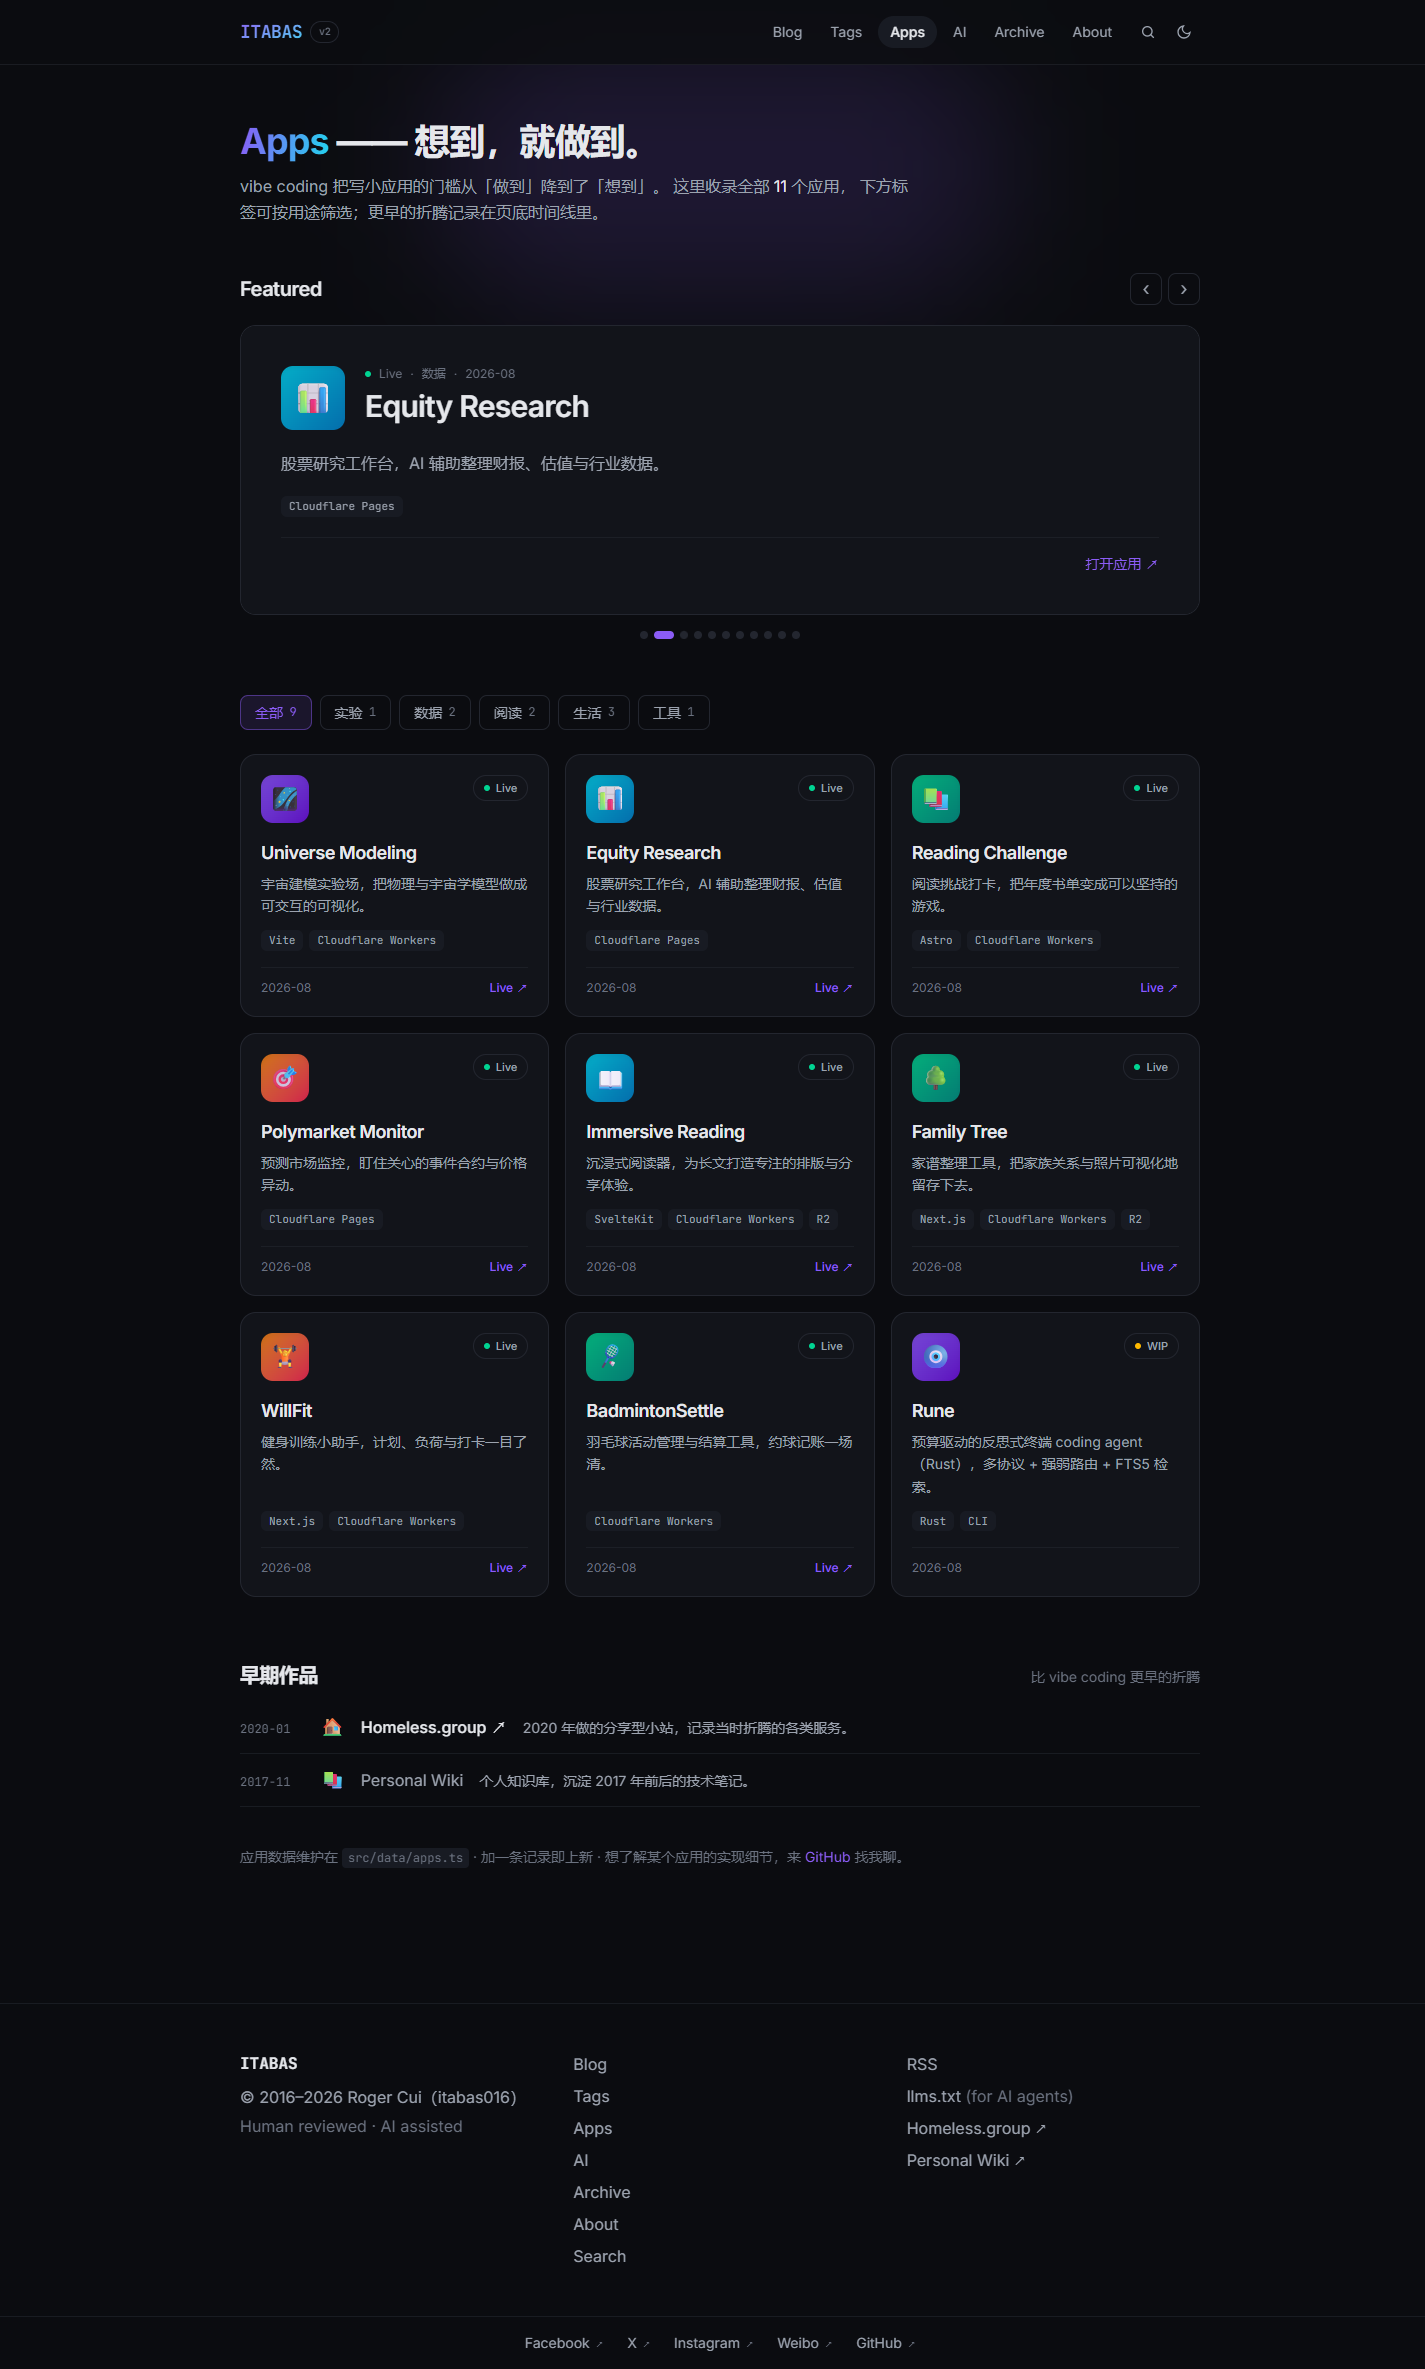
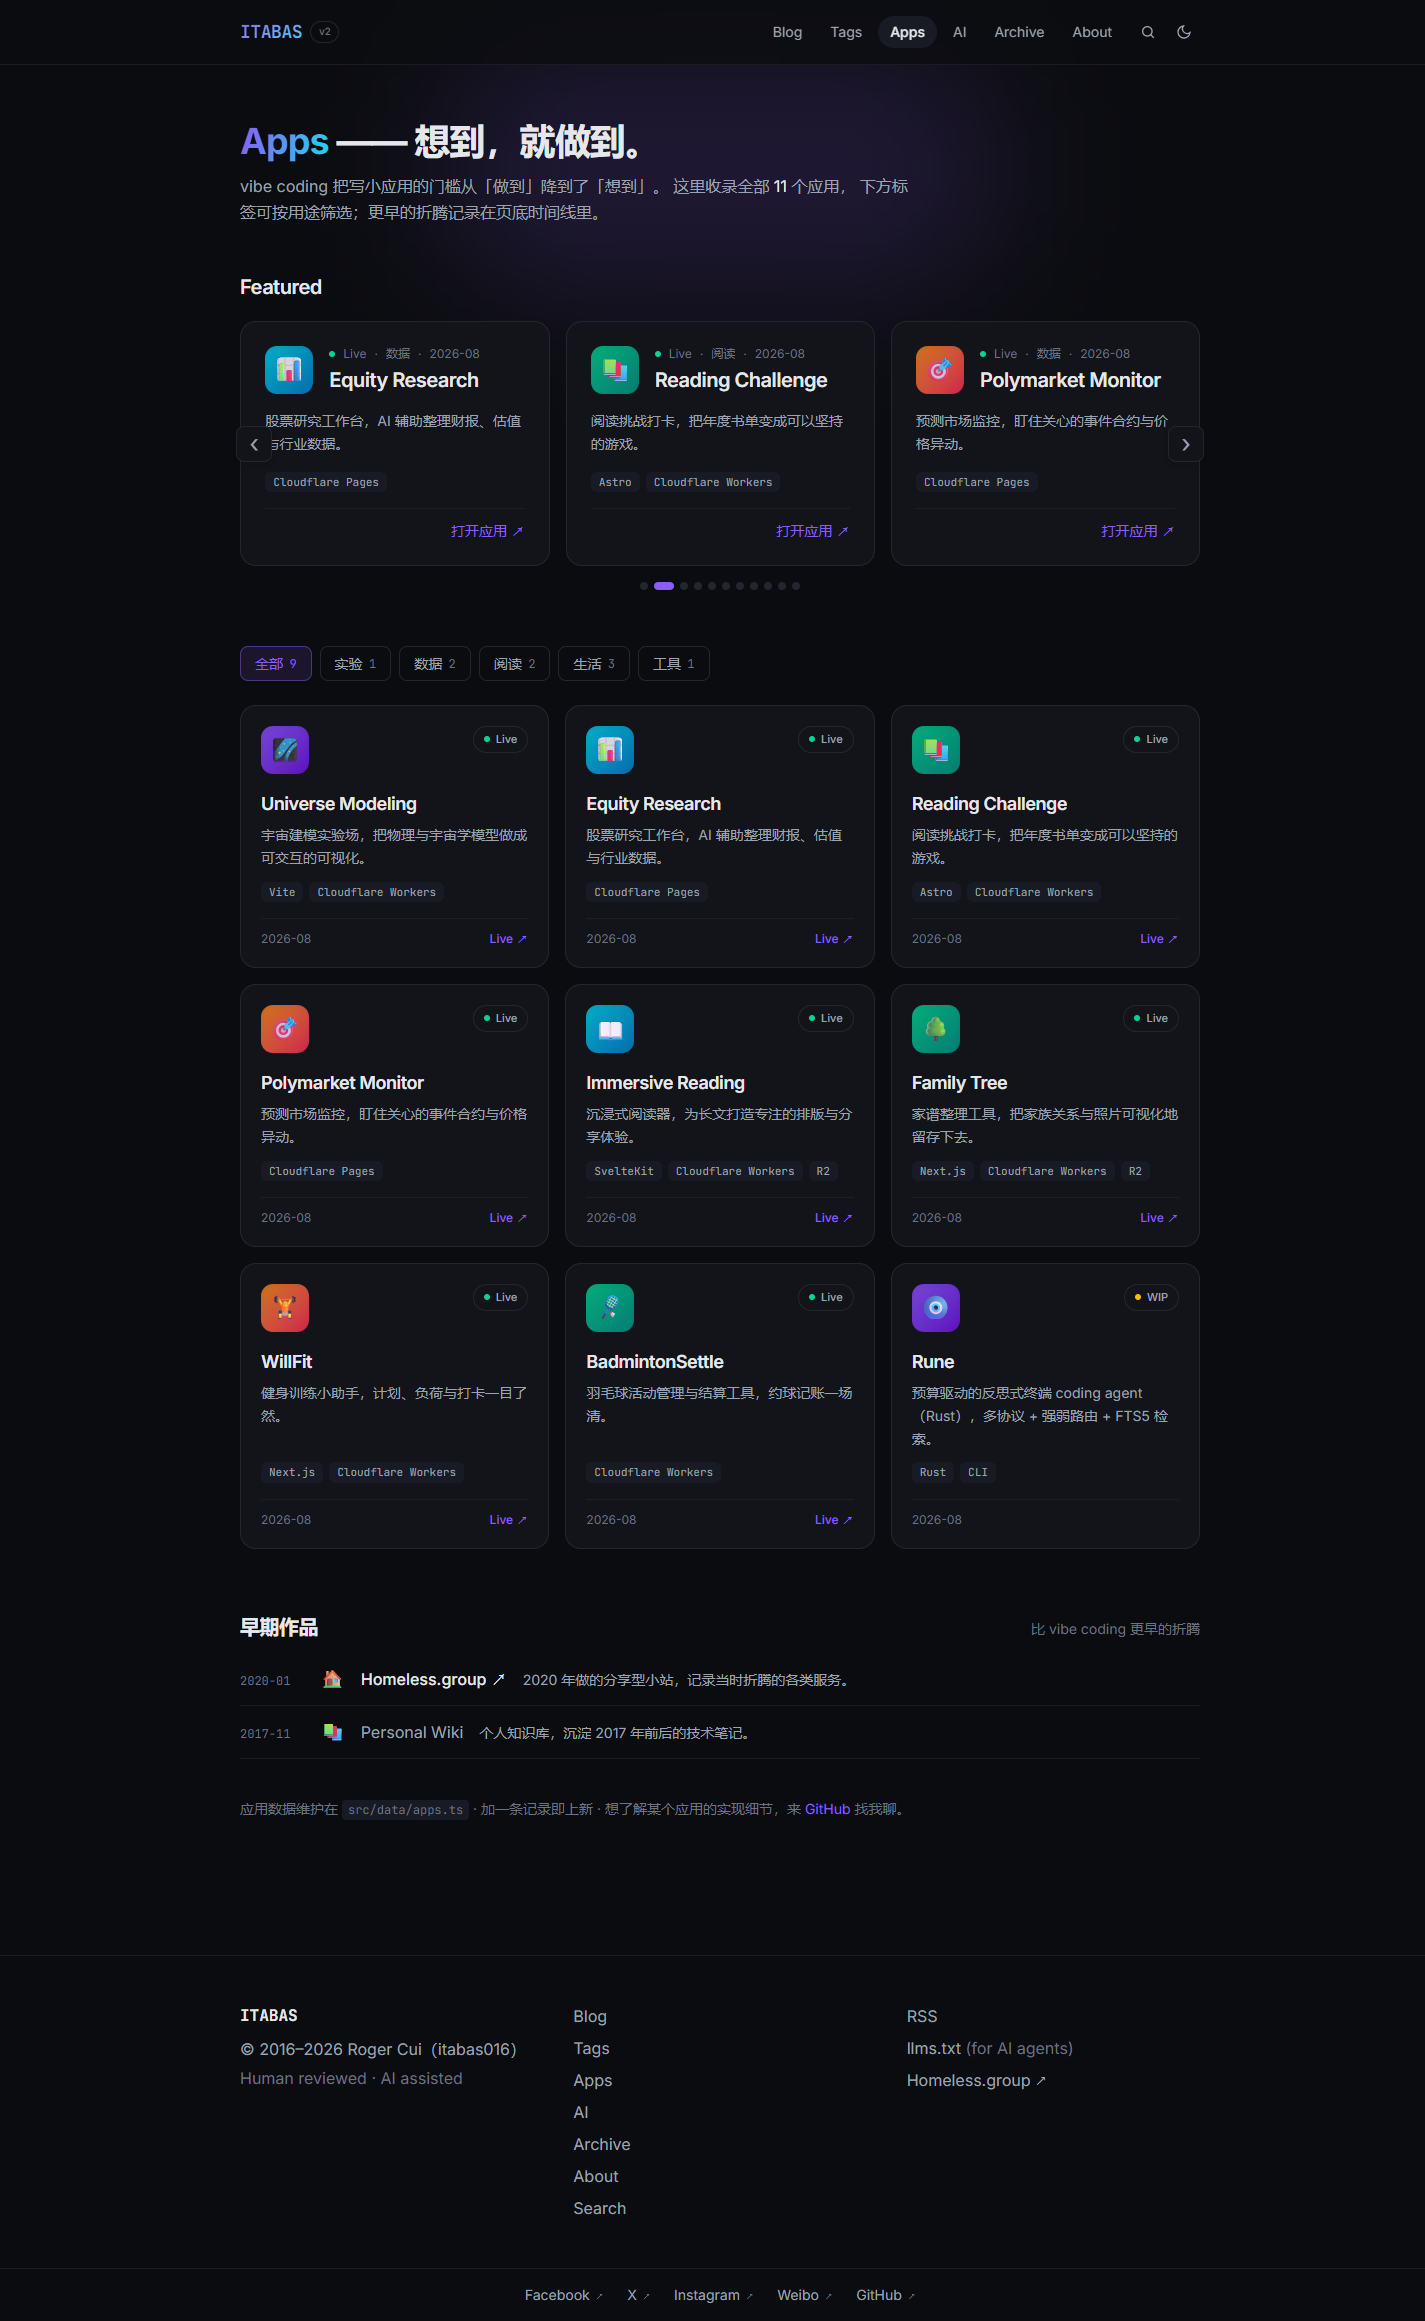
docs(apps): v4.1 carousel revision notes with refreshed screenshots

diff --git a/docs/APPS-REDESIGN.md b/docs/APPS-REDESIGN.md
@@ -1,6 +1,6 @@
 # /apps 页面重设计方案（去 AI 味修订版）
 
-> 版本：v4 · 2026-09-05 · Roger Cui（itabas016）× Claude Code
+> 版本：v4.1 · 2026-09-05 · Roger Cui（itabas016）× Claude Code
 > 状态：P1 已实现，本文档截图即当前形态；P2 截图素材待补
 > 关联：`DESIGN.md` §6（数据契约与展示形态的单一段落摘要）、`AGENTS.md`（发布规范）
 
@@ -46,7 +46,7 @@ v2 方案（跑马灯 → 精选大卡 + 筛选网格）解决了结构问题，
 | # | 元素 | v3 | v4 | 理由 |
 |---|---|---|---|---|
 | 1 | vibe-coded 标注 | 精选行与网格卡均有 ✦ 徽章 | `/apps` 全页移除（`AppCard` 增加 `vibeBadge` 开关，首页速览保留）；数字条已随 §4 删除 | 应用页只谈应用本身，AI 披露由首页与 `/ai` 页承担 |
-| 2 | Featured 形态 | 3 行排印索引（手工 `featured` 挑选） | **全量应用大卡自动轮播**：一屏一大卡，5s 自动翻页，箭头 + 页码点可手动，悬停/聚焦暂停，循环播放 | 推广位要给每个应用出场机会，不做人工挑选 |
+| 2 | Featured 形态 | 3 行排印索引（手工 `featured` 挑选） | **全量应用大卡自动轮播**：一屏 3 卡（lg）/ 2 卡（sm）/ 1 卡（移动），5s 自动步进 1 卡并循环；两侧 ‹ › 箭头手动按页翻（一次 perView 张），页码点可直达 | 推广位要给每个应用出场机会，一屏多卡减少翻页成本，手动翻页不必等自动滚动 |
 | 3 | Hero 数字条 | 应用/在线/vibe-coded 三项统计 | 删除 | 数字 self-congratulatory，应用本身说话 |
 | 4 | 分类筛选作用域 | 筛选时精选区隐藏、精选应用回网格 | 分类只过滤下方网格，**轮播常驻** | 轮播即全量目录的放大镜，无需让位 |
 | 5 | 应用链接 | 个别用 `*.pages.dev` | 对照 Cloudflare API 全量核实：**有自定义域名一律用自定义域名**（reading-challenge / family-tree 本次切换），无自定义域用 `*.pages.dev` 默认域；`wiki.itabas.com` 已下线移除链接 | 链接以部署事实为准 |
@@ -56,9 +56,9 @@ v2 方案（跑马灯 → 精选大卡 + 筛选网格）解决了结构问题，
 ```
 Hero：H1 + 一句话说明（无统计数字条）
 ──────────────────────────────────────────
-Featured：全量大卡自动轮播（11 个应用全部出场）
-          卡片 = 状态点 · 分类 · 日期｜emoji 图标位｜大字应用名｜一句话｜stack chips｜打开应用 ↗
-          5s 自动翻页 · 循环；箭头按钮 + 页码点手动；悬停/聚焦暂停；reduced-motion 停用自动播放
+Featured：全量大卡自动轮播（11 个应用全部出场，一屏 3 卡 / 2 卡 / 1 卡随断点）
+          卡片 = 状态点 · 分类 · 日期｜emoji 图标位｜应用名｜一句话｜stack chips｜打开应用 ↗
+          5s 自动步进 1 卡 · 循环；两侧 ‹ › 箭头按页手动翻；页码点直达；悬停/聚焦暂停；reduced-motion 停用自动播放
 ──────────────────────────────────────────
 筛选 pills：全部 9 ｜ 实验 1 ｜ 数据 2 ｜ 阅读 2 ｜ 生活 3 ｜ 工具 1（只过滤下方网格，URL 同步 ?c=）
 应用网格：3 列 → 2 列 → 1 列，既有 AppCard；wip 徽章；无 vibe-coded 标注
@@ -83,7 +83,7 @@ Featured：全量大卡自动轮播（11 个应用全部出场）
 
 ## 6. 交互与动效（v4）
 
-- **轮播**：scroll-snap 横向轨道 + JS 自动翻页（5s 间隔，循环）。箭头按钮、页码点均可手动；悬停/聚焦暂停，离开恢复；`visibilitychange` 时停走；`prefers-reduced-motion` 停用自动播放且翻页不动画。无 JS 时退化为原生横滑（snap 兜底），控制按钮隐藏。
+- **轮播**：scroll-snap 横向轨道 + JS 自动翻页（5s 步进 1 卡，到尾循环）。两侧 ‹ › 箭头按页翻（一次一屏的卡片数：桌面 3 / 平板 2 / 移动 1），页码点直达任意卡；悬停/聚焦暂停，离开恢复；`visibilitychange` 时停走；`prefers-reduced-motion` 停用自动播放且翻页不动画。无 JS 时退化为原生横滑（snap 兜底），箭头与页码点隐藏。
 - **筛选**：约 40 行 vanilla JS 渐进增强，只作用于下方网格；筛选态同步 `?c=<id>` 到 URL（可分享、可后退）；pill 用 `aria-pressed` 驱动选中态，`focus-visible` 有 2px ring；轮播不受筛选影响。
 - **无 JS 降级**：筛选条与轮播控制隐藏，轮播可横滑、网格全量可读，零内容丢失。
 - **重排动效**：网格淡入上移 200ms（`cubic-bezier(0.23,1,0.32,1)`），stagger 40ms；`prefers-reduced-motion` 时关闭。

diff --git a/docs/DESIGN.md b/docs/DESIGN.md
@@ -139,7 +139,7 @@ interface App {
 }
 ```
 
-- 展示形态（2026-09 v4 更新）：**大卡轮播目录页**。页面结构：Hero（标题 + 一句话说明，无统计数字条）→ Featured 全量大卡自动轮播（全部应用出场，5s 自动翻页循环，箭头/页码点手动，悬停暂停，`prefers-reduced-motion` 停用自动播放；`cover` 就绪后卡片右侧接截图）→ 分类筛选 pills（按用途：实验/数据/阅读/生活/工具，只过滤下方网格，筛选态同步 `?c=` 到 URL）→ 应用网格 → 早期作品时间线（archived 不进网格，死链退化为纯文本）。
+- 展示形态（2026-09 v4.1 更新）：**大卡轮播目录页**。页面结构：Hero（标题 + 一句话说明，无统计数字条）→ Featured 全量大卡自动轮播（全部应用出场；一屏 3 卡 lg / 2 卡 sm / 1 卡移动；5s 自动步进 1 卡循环，两侧箭头按页手动翻，页码点直达，悬停暂停，`prefers-reduced-motion` 停用自动播放；`cover` 就绪后卡片右侧接截图）→ 分类筛选 pills（按用途：实验/数据/阅读/生活/工具，只过滤下方网格，筛选态同步 `?c=` 到 URL）→ 应用网格 → 早期作品时间线（archived 不进网格，死链退化为纯文本）。
 - 分类原则：按用途（访客视角）分类，技术栈是卡片 tag 不参与分类；`category` 为可选字段，漏填的应用落「未分类」照常展示，加应用永不被 schema 卡住。
 - 交互：轮播 scroll-snap + 自动翻页常驻，不受筛选影响；pill 用 `aria-pressed` 驱动选中态；网格重排 200ms 淡入上移 stagger 40ms，`prefers-reduced-motion` 时关闭；无 JS 时轮播可横滑、控制件隐藏、全量网格照常可读。
 - 链接策略（2026-09-05 对照 Cloudflare API 核实）：有自定义域名一律用自定义域名（reading-challenge / family-tree 已切换），无自定义域用 `*.pages.dev` 默认域；已下线的应用移除链接。`/apps` 页不标注 vibe-coded（`AppCard.vibeBadge` 开关，首页速览保留）。
